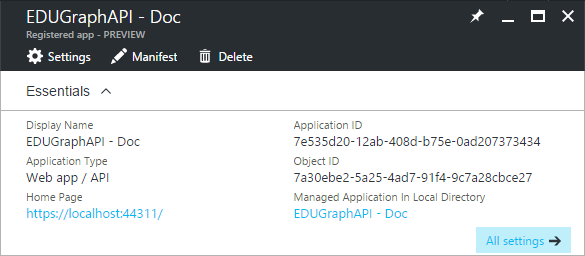
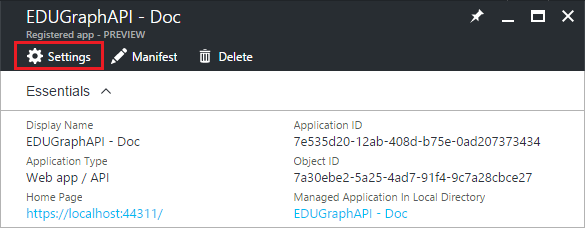
Fix bugs and update permissions

diff --git a/README.md b/README.md
@@ -8,7 +8,7 @@ School data is kept in sync in O365 Education tenants by [Microsoft School Data 
 
 - [Sample Goals](#sample-goals)
 - [Prerequisites](#prerequisites)
-- [Generate a self-signed certificate](generate-a-self-signed-certificate)
+- [Generate a self-signed certificate](#generate-a-self-signed-certificate)
 - [Register the application in Azure Active Directory](#register-the-application-in-azure-active-directory)
 - [Run the sample locally](#run-the-sample-locally)
 - [Deploy the sample to Azure](#deploy-the-sample-to-azure)
@@ -123,15 +123,9 @@ For production, you should you own certifcate:
 
    Click **Create**.
 
-5. Once completed, the app will show in the list.
-
-   ![](Images/aad-create-app-03.png)
-
-6. Click it to view its details. 
-
    ![](Images/aad-create-app-04.png)
 
-7. Click **All settings**, if the setting window did not show.
+5. Click **Settings**.
 
    - Click **Properties**, then set **Multi-tenanted** to **Yes**.
 
@@ -143,7 +137,7 @@ For production, you should you own certifcate:
 
      | API                            | Application Permissions       | Delegated Permissions                                        |
      | ------------------------------ | ----------------------------- | ------------------------------------------------------------ |
-     | Microsoft Graph                | Read all users' full profiles | Read directory data<br>Access directory as the signed in user<br>Sign users in<br> Have full access to all files user can access<br> Have full access to user files<br> Read users' class assignments without grades<br> Read and write users' class assignments without grades<br> Read users' class assignments and their grades<br> Read and write users' class assignments and their grades |
+     | Microsoft Graph                | Read all users' full profiles | Read directory data<br>Access directory as the signed in user<br>Sign users in<br> Have full access to all files user can access<br> Have full access to user files<br> Read and write users' class assignments and their grades<br>Read users' view of the roster |
      | Windows Azure Active Directory |                               | Sign in and read user profile<br>Read and write directory data |
 
      ![](Images/aad-create-app-06.png)
@@ -156,11 +150,13 @@ For production, you should you own certifcate:
 
    Close the Settings window.
 
-8. Add keyCredential
+6. Add keyCredential
 
    * Click **Manifest**.
 
      ![](Images/aad-create-app-10.png)
+
+   * Copy the keyCredential (all the text) from `key_credential.txt` file.
 
    * Insert the keyCredential into the square brackets of the **keyCredentials** node.
 
